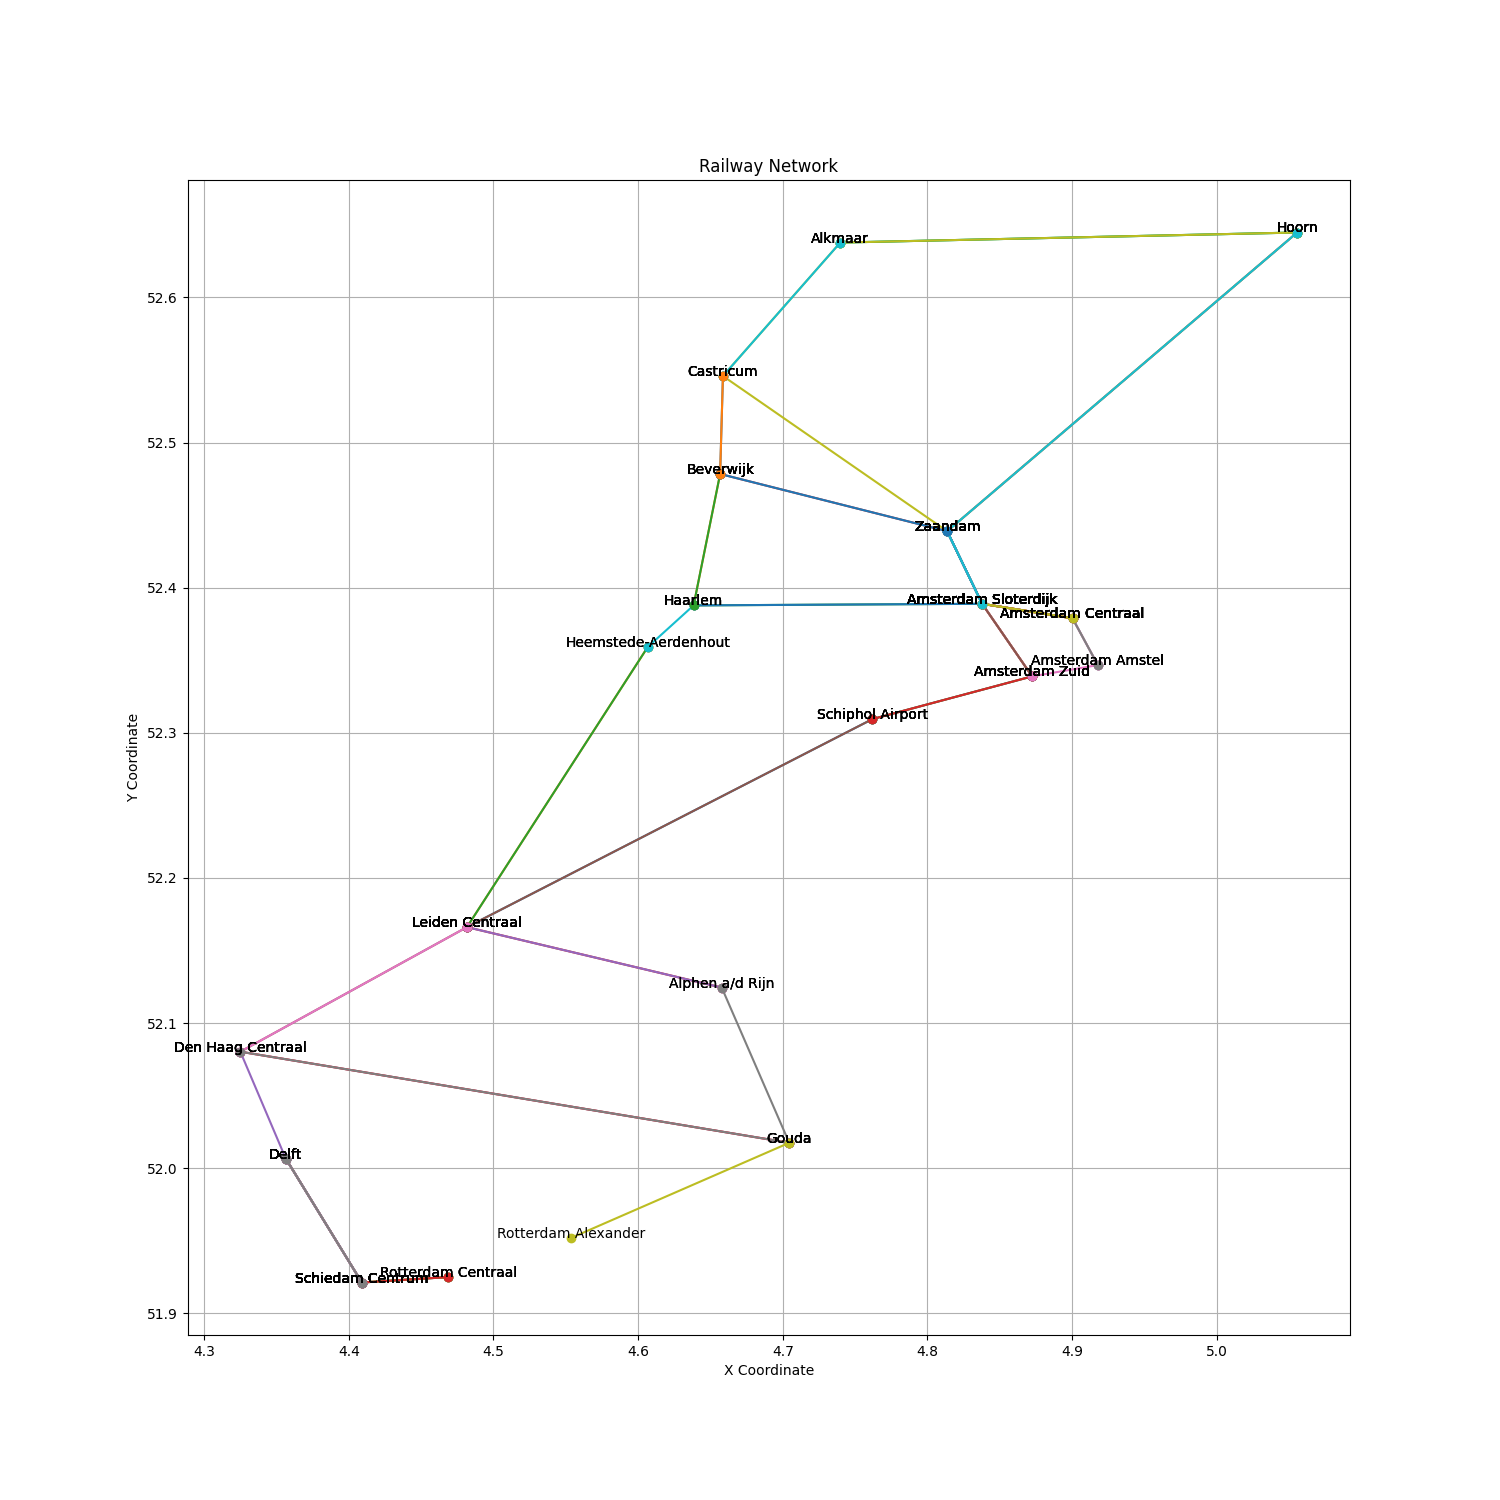
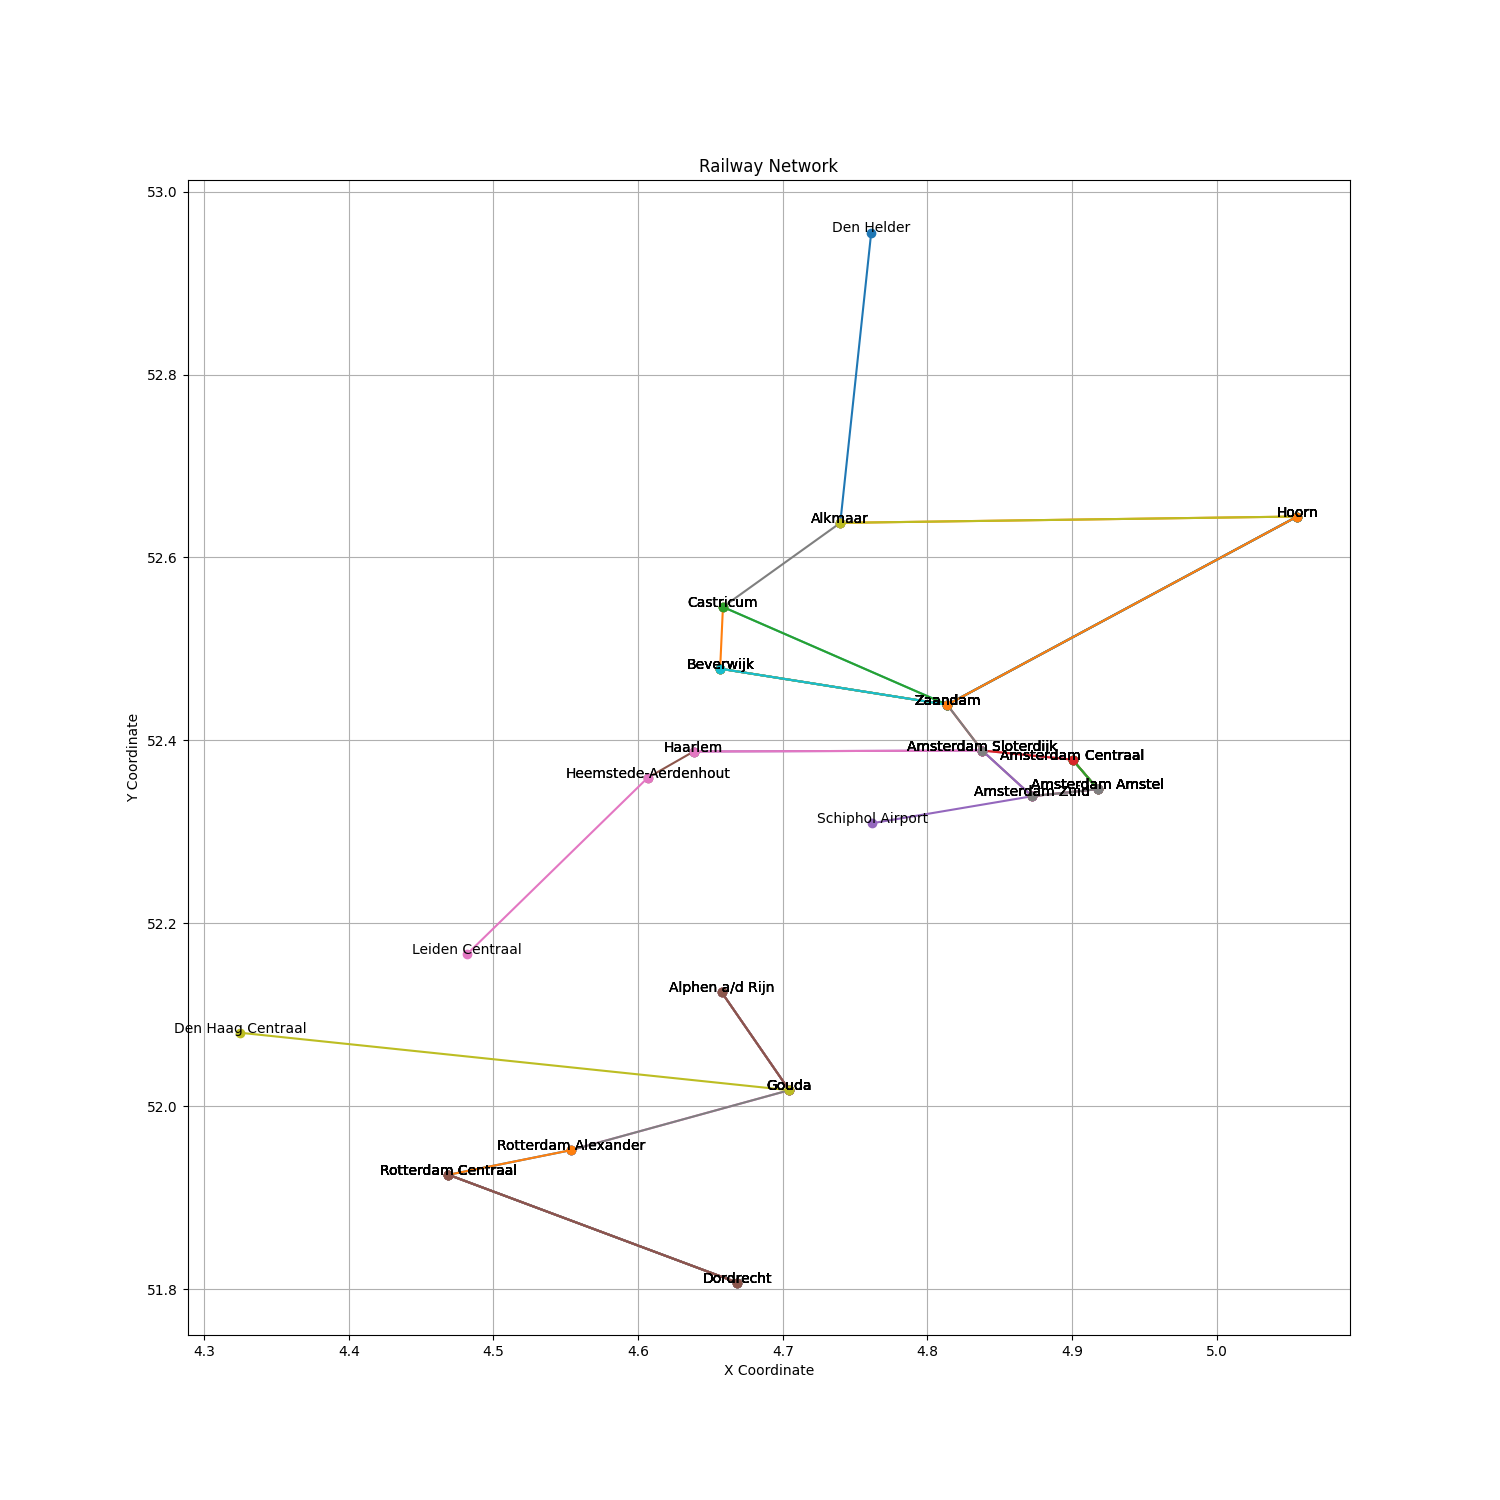
class algorithm

diff --git a/code/random_trajects.py b/code/random_trajects.py
@@ -7,77 +7,80 @@ from load import Load_in # type: ignore
 from traject import Traject # type: ignore
 import matplotlib.pyplot as plt # type: ignore
 
-load = Load_in() # Load station data 
-trajects: list[Any] = []
-
-for _ in range(7):
-    time_used = 0
-    current_station = random.choice(list(load.get_stations_dictionary().values()))
-    traject = Traject()
-
-    # Break when no connections are left in current station
-    while current_station.has_connections():
-        # Find random connection from current_station
-        connection = random.choice(list(current_station.connecting_stations()))
-
-        # Calculate new total duration of route
-        duration = current_station.connection_duration(connection)
-        total = time_used + duration
-
-        # Continue if connection is possible considering time_used
-        if total <= 120:
-            time_used = total
-            traject.add(current_station, connection, duration)
-            current_station = connection
-
-        # Else consider traject finished
-        else:
-            break
-
-    print(traject.connections_used)
-    trajects.append(traject)
-
-# maak een plaatje
-plt.figure(figsize=(15, 15))
-for tra in trajects:
-    for connection in tra.connections_used:
-        x_values = [load.stations[connection[0]].long, load.stations[connection[1]].long]
-        y_values = [load.stations[connection[0]].lat, load.stations[connection[1]].lat]
-        plt.plot(x_values, y_values, marker='o', linestyle='-')
-        # Annotate stations
-        plt.text(load.stations[connection[0]].long, load.stations[connection[0]].lat, connection[0], ha='center')
-        plt.text(load.stations[connection[1]].long, load.stations[connection[1]].lat, connection[1], ha='center')
-plt.title('Railway Network')
-plt.xlabel('X Coordinate')
-plt.ylabel('Y Coordinate')
-plt.grid(True)
-plt.savefig('railway_network.png')
-plt.close()
+class Algorithm:
+    def __init__(self) -> None:
+        self.load = Load_in()
+        self.trajects: list[Any] = []
 
 
-# bereken k
-T = 0
-Min = 0
-total_connections_used = set()
+    def random_algorithm(self):
+        for _ in range(7):
+            time_used = 0
+            current_station = random.choice(list(self.load.stations_dictionary().values()))
+            traject = Traject()
 
-for tra in trajects:
-    Min += tra.time
-    for con in tra.connections_used:
-        # Ensure that each connection is a tuple
-        total_connections_used.add(tuple(con))
-    if tra.time != 0:
-        T += 1
+            # Break when no connections are left in current station
+            while current_station.has_connections():
+                # Find random connection from current_station
+                connection = random.choice(list(current_station.connecting_stations()))
 
-tot_connections_available = set(load.connections)
-p = len(total_connections_used) / len(tot_connections_available)
-K = p * 10000 - (T * 100 + Min)
+                # Calculate new total duration of route
+                duration = int(current_station.connection_duration(connection))
+                total = time_used + duration
 
-print(total_connections_used)
-print(len(total_connections_used))
-print(len(tot_connections_available))
+                # Continue if connection is possible considering time_used
+                if total <= 120:
+                    time_used = total
+                    traject.add(current_station, connection, duration)
+                    current_station = connection
 
-print('K is {}'.format(K))
-print('p is {}'.format(p))
-print('T is {} trajecten'.format(T))
-print('Min is {} minuten'.format(Min))
+                # Else consider traject finished
+                else:
+                    break
+
+            print(traject.connections_used)
+            self.trajects.append(traject)
+
+
+    def make_picture(self):
+        self.random_algorithm()
+        plt.figure(figsize=(15, 15))
+        for tra in self.trajects:
+            for connection in tra.connections_used:
+                x_values = [self.load.stations[connection[0]].long, self.load.stations[connection[1]].long]
+                y_values = [self.load.stations[connection[0]].lat, self.load.stations[connection[1]].lat]
+                plt.plot(x_values, y_values, marker='o', linestyle='-')
+                # Annotate stations
+                plt.text(self.load.stations[connection[0]].long, self.load.stations[connection[0]].lat, connection[0], ha='center')
+                plt.text(self.load.stations[connection[1]].long, self.load.stations[connection[1]].lat, connection[1], ha='center')
+        plt.title('Railway Network')
+        plt.xlabel('X Coordinate')
+        plt.ylabel('Y Coordinate')
+        plt.grid(True)
+        plt.savefig('railway_network.png')
+        plt.close()
+
+    def calculate_K(self) -> int:
+        T = 0
+        Min = 0
+        total_connections_used = set()
+
+        for tra in self.trajects:
+            Min += tra.time
+            for con in tra.connections_used:
+                # Ensure that each connection is a tuple
+                total_connections_used.add(tuple(con))
+            if tra.time != 0:
+                T += 1
+
+        tot_connections_available = set(self.load.connections)
+        p = len(total_connections_used) / len(tot_connections_available)
+        K = p * 10000 - (T * 100 + Min)
+        return K
+
+
+algorithm = Algorithm()
+algorithm.make_picture()
+print(algorithm.calculate_K())
+
 
